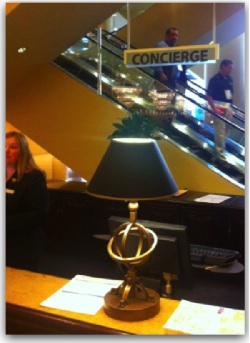
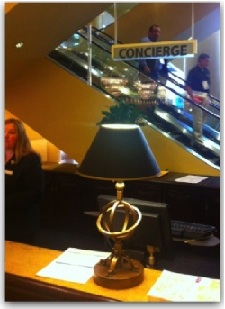
Resized photo and updated README (round 3.)

diff --git a/README.md b/README.md
@@ -1,14 +1,12 @@
 # Concierge
-<div style="float:right;width:252;">
-<img alt="Photo of Concierge Sign by Kin Lane" height="343" width="250" src="photos/concierge-sign-by-kin-lane.jpg?raw=true" />
-<p style="text-align:center;">Photo by <a href="https://twitter.com/kinlane">Kin Lane</a> of <a href="http://apievangelist.com">API Evangelist</a> while at <a href="http://www.twilio.com/conference">twilioCON 2012</a>.</p>
-</div>
+<img alt="Photo of Concierge Sign by Kin Lane" height="343" width="250" src="https://raw.github.com/newclarity/concierge/master/photos/concierge-sign-by-kin-lane.jpg" align="right" />
 **_A Node.js-based Universal Client for RESTful APIs_**
 
 Concierge is designed to be a universal client SDK that works across all platforms by leveraging [code-on-demand](http://bitworking.org/news/355/code-on-demand-rest-and-cloud-computing) but in reverse; the API client sends code to the API server, in this case a _Concierge Server_.
 
 **Concierge envisions itself as a companion to a REST API**, not an alternative. Concierge was designed to work as a layer on top of a REST API that is optional at the _per request level_.  Our goal is for Concierge to become a defacto-standard optional method of interacting with RESTful APIs and is appropriately open-source. _(Who knows, maybe we'll even spawn an [RFC](http://en.wikipedia.org/wiki/Request_for_Comments)?)_
 
+Photo by [Kin Lane](https://twitter.com/kinlane) of [API Evangelist](http://apievangelist.com) while at [twilioCON 2012](http://www.twilio.com/conference).
 ##Targeted Users
 
 We envision Concierge benefiting the following types of people:
